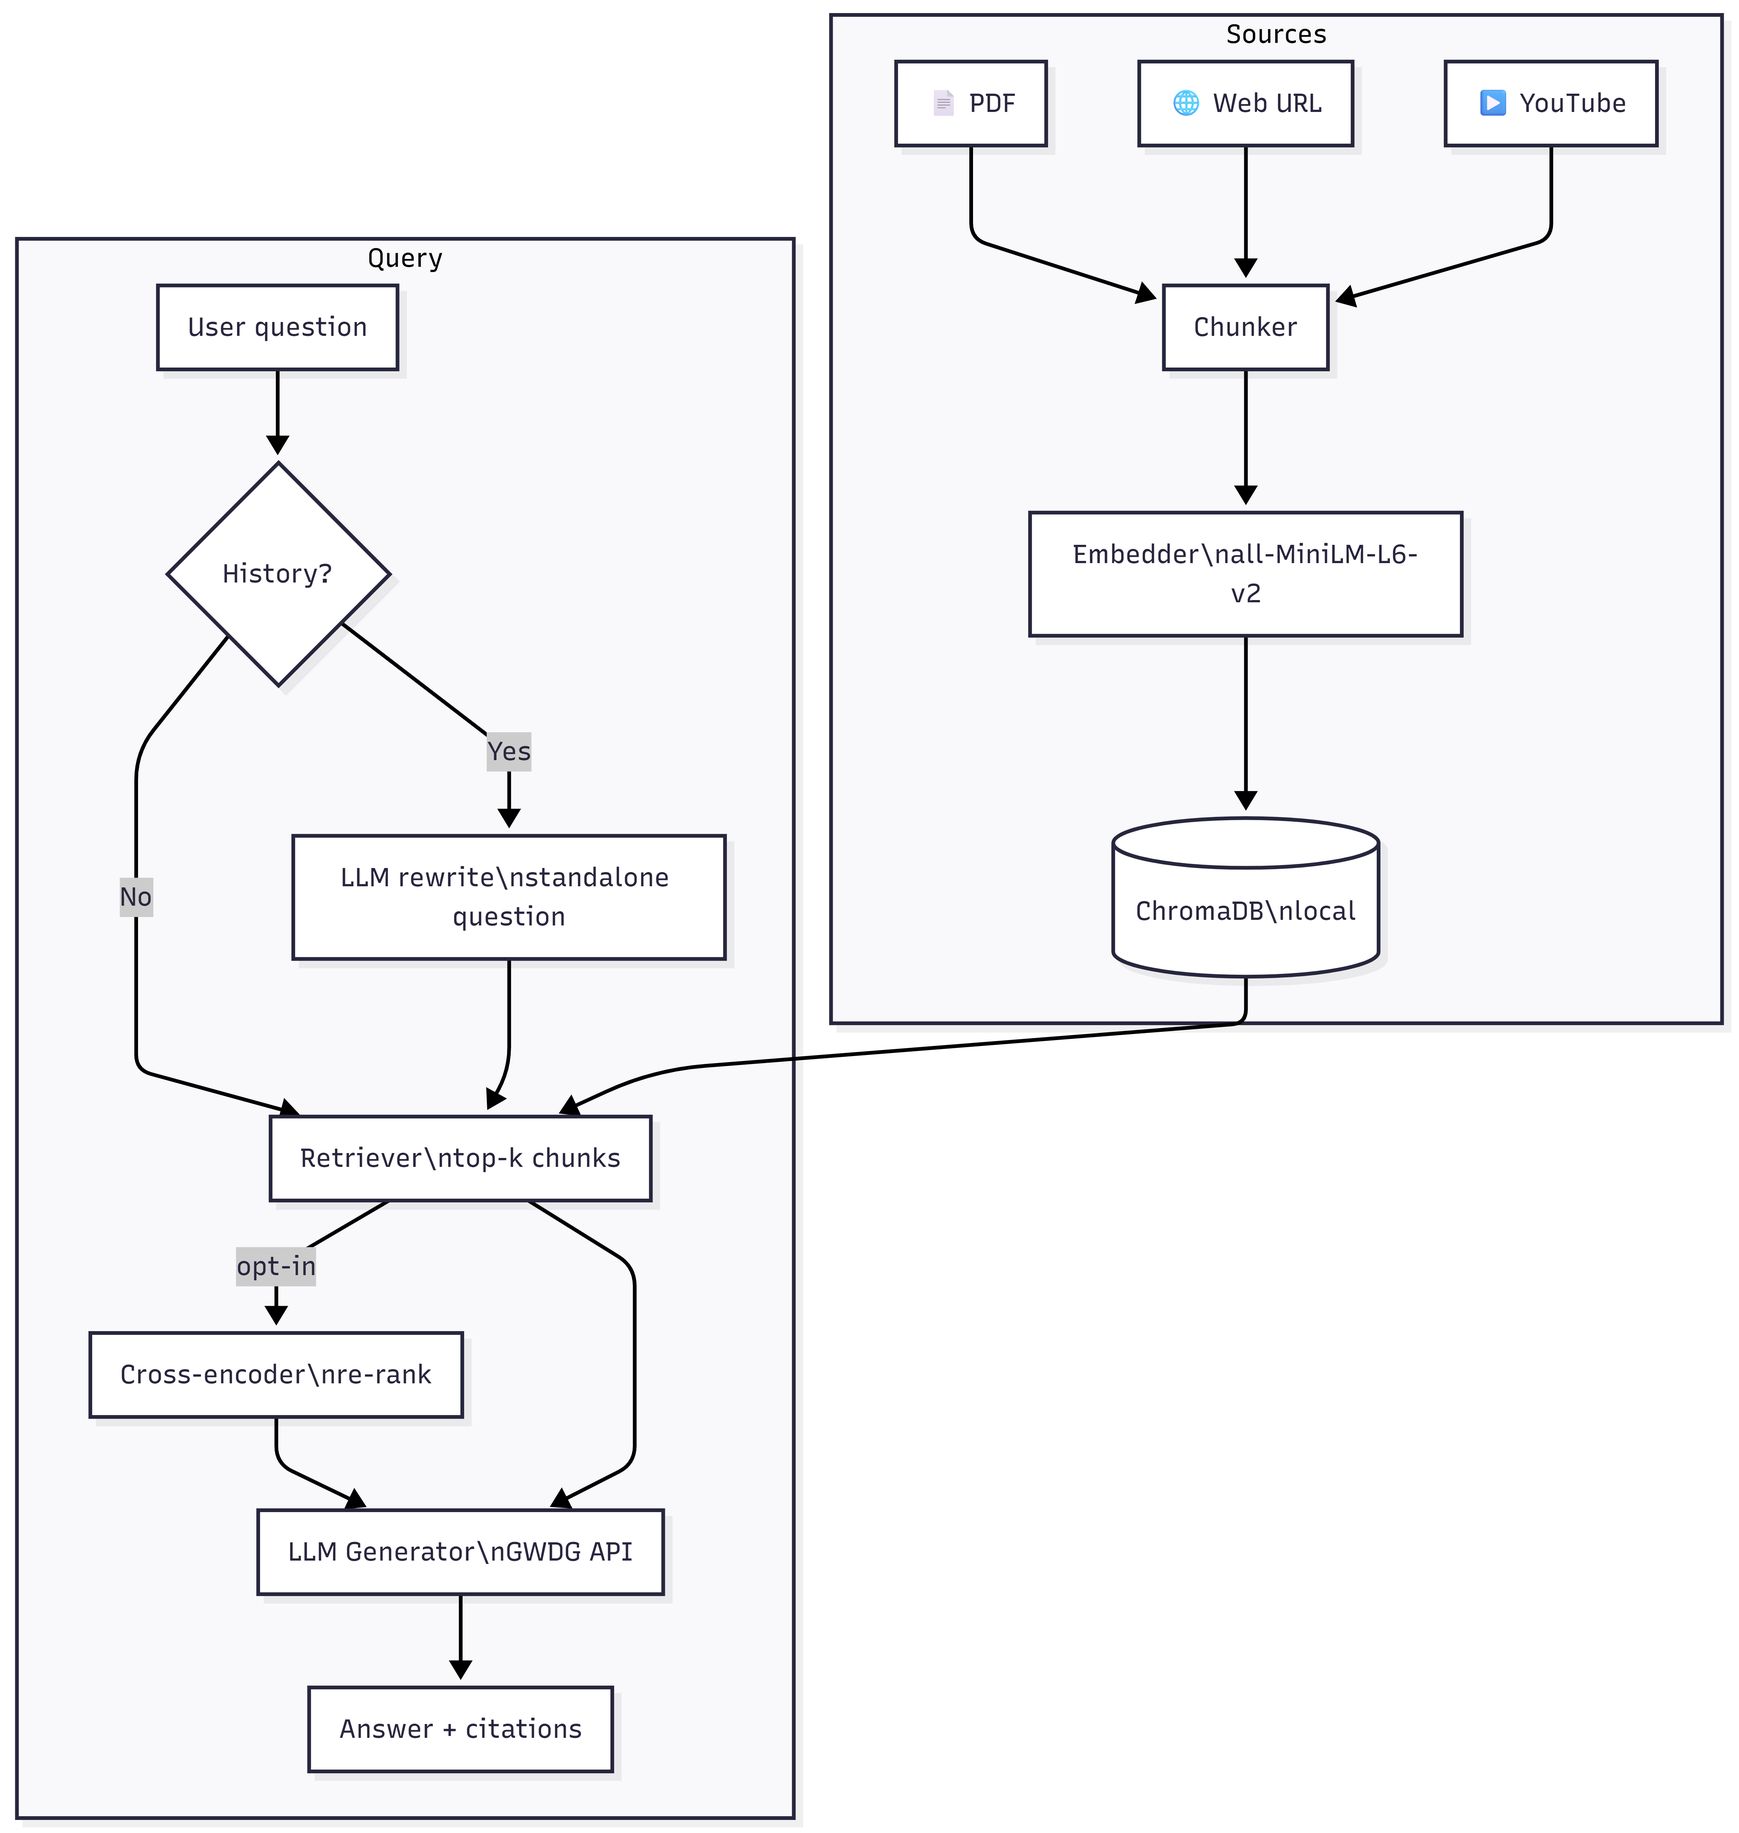
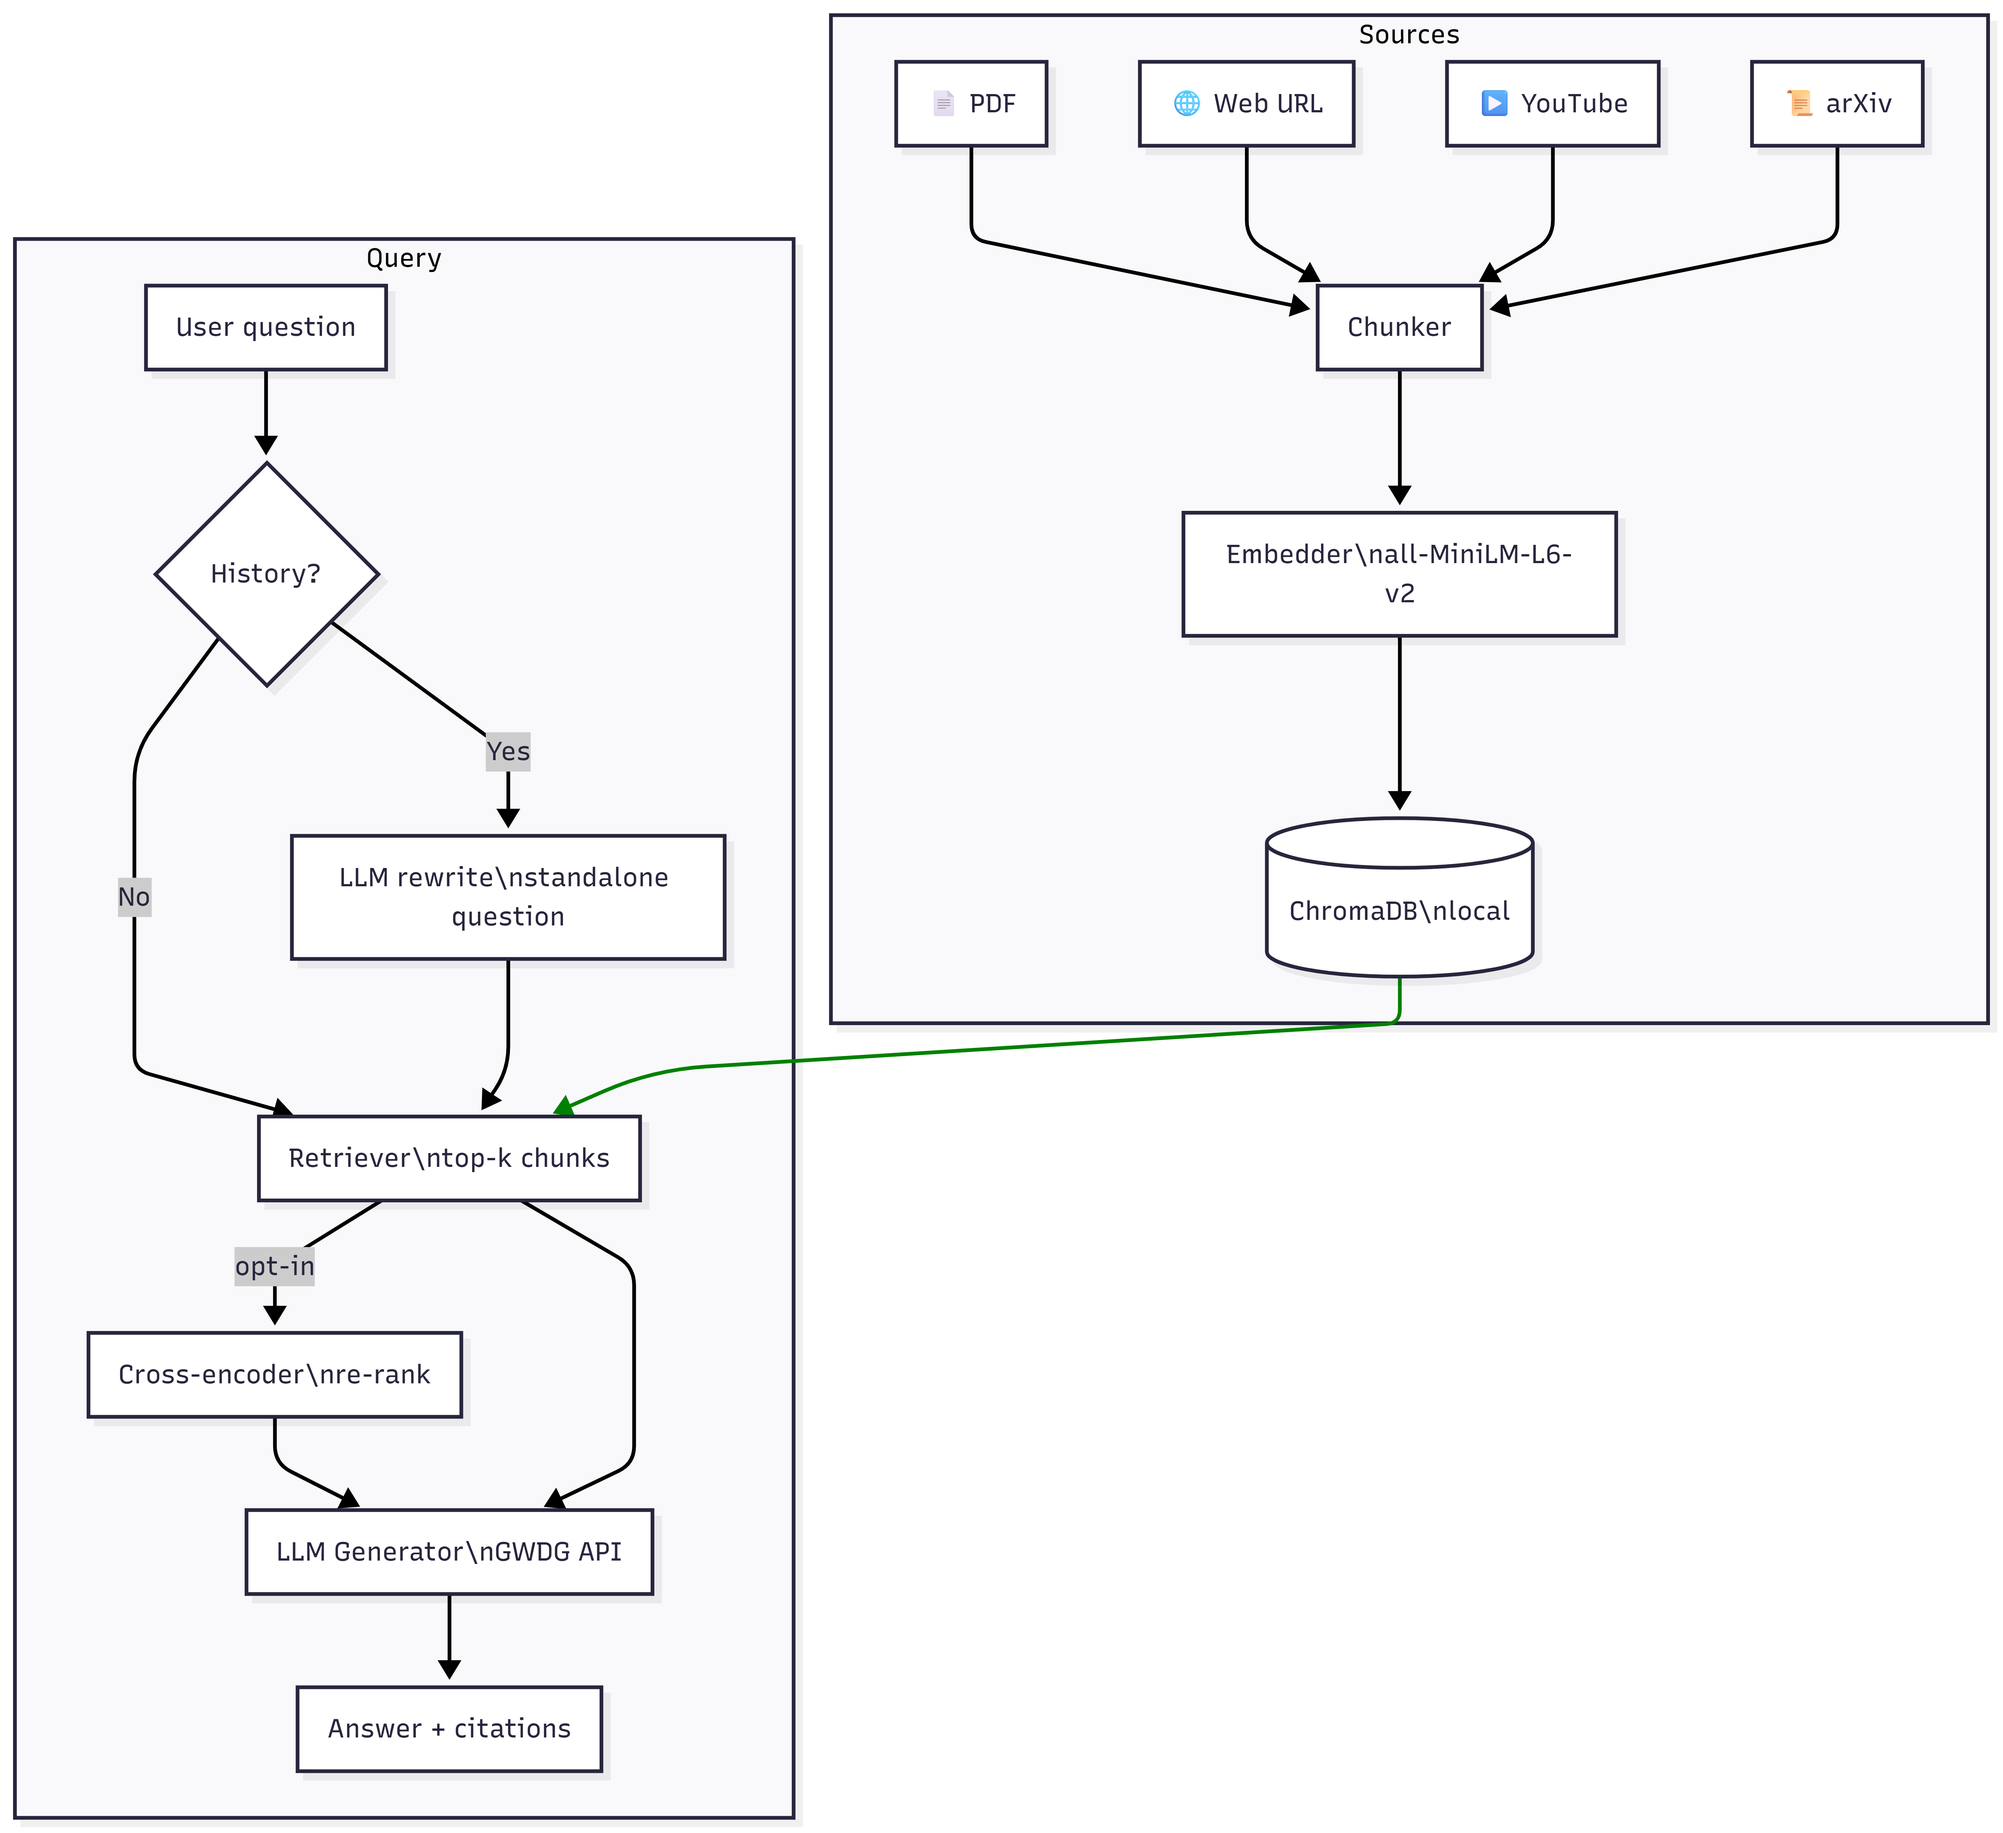
fix: fpdf2 exception

diff --git a/app/components/chat.py b/app/components/chat.py
@@ -257,7 +257,14 @@ def _export_chat_pdf(messages: list[dict]) -> bytes:
     from fpdf import FPDF  # lazy import — only needed when Export is clicked
 
     def _safe(text: str) -> str:
-        """Encode to latin-1, replacing unsupported characters with '?'."""
+        """Encode to latin-1 and break long unbreakable tokens (e.g. URLs).
+
+        fpdf2 raises FPDFException if a single token is wider than the page —
+        inserting a space every 85 chars gives it a break point without
+        visually disrupting normal prose.
+        """
+        # Break any run of 85+ non-space chars (catches long URLs)
+        text = re.sub(r"(\S{85})", r"\1 ", text)
         return text.encode("latin-1", errors="replace").decode("latin-1")
 
     pdf = FPDF()

diff --git a/README.md b/README.md
@@ -37,6 +37,7 @@ flowchart TD
         A[📄 PDF] --> C
         B[🌐 Web URL] --> C
         D[▶ YouTube] --> C
+        X[📜 arXiv] --> C
         C[Chunker] --> E[Embedder\nall-MiniLM-L6-v2]
         E --> F[(ChromaDB\nlocal)]
     end
@@ -53,6 +54,9 @@ flowchart TD
     end
 
     F --> J
+    
+    %% Give the edge an id to style it
+    linkStyle 14 stroke:green,stroke-width:2px
 ```
 
 **Data flow:**
@@ -185,4 +189,4 @@ MIT — see [LICENSE](LICENSE).
 
 ## Author
 
-**Farmand Bazdiditehrani** · M.Sc. in Management & Data Science · [farmand.bazdiditehrani@gmail.com](mailto:farmand.bazdiditehrani@gmail.com)
+[**Farmand Bazdiditehrani**](https://www.linkedin.com/in/farmand-bt/) · M.Sc. in Management & Data Science · [farmand.bazdiditehrani@gmail.com](mailto:farmand.bazdiditehrani@gmail.com)
